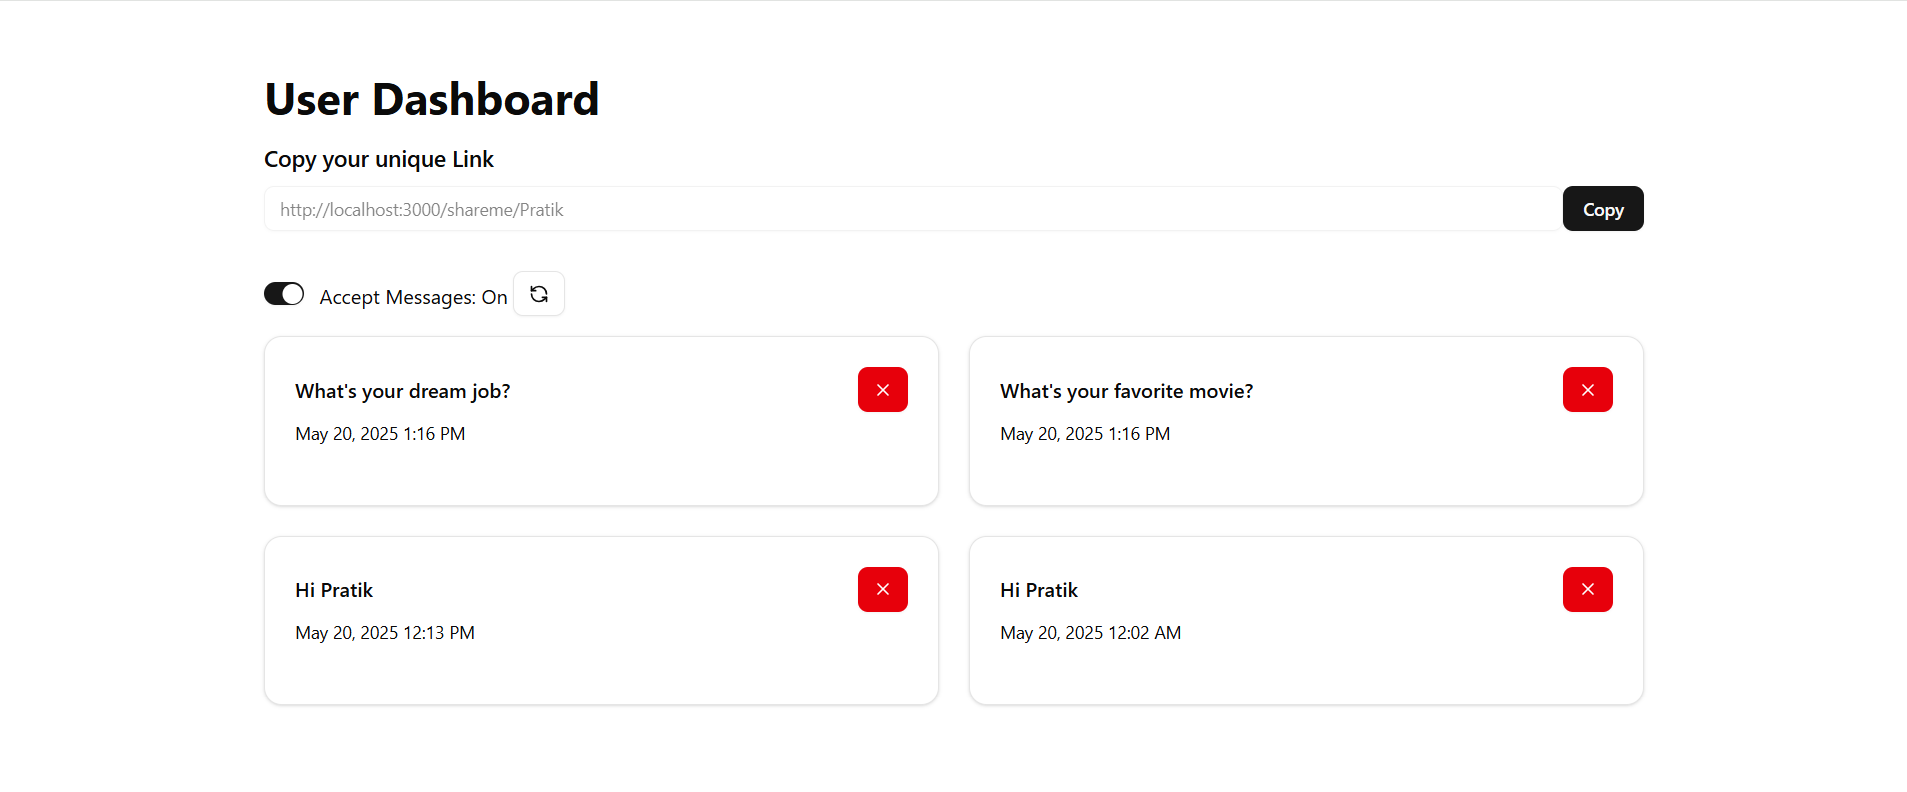
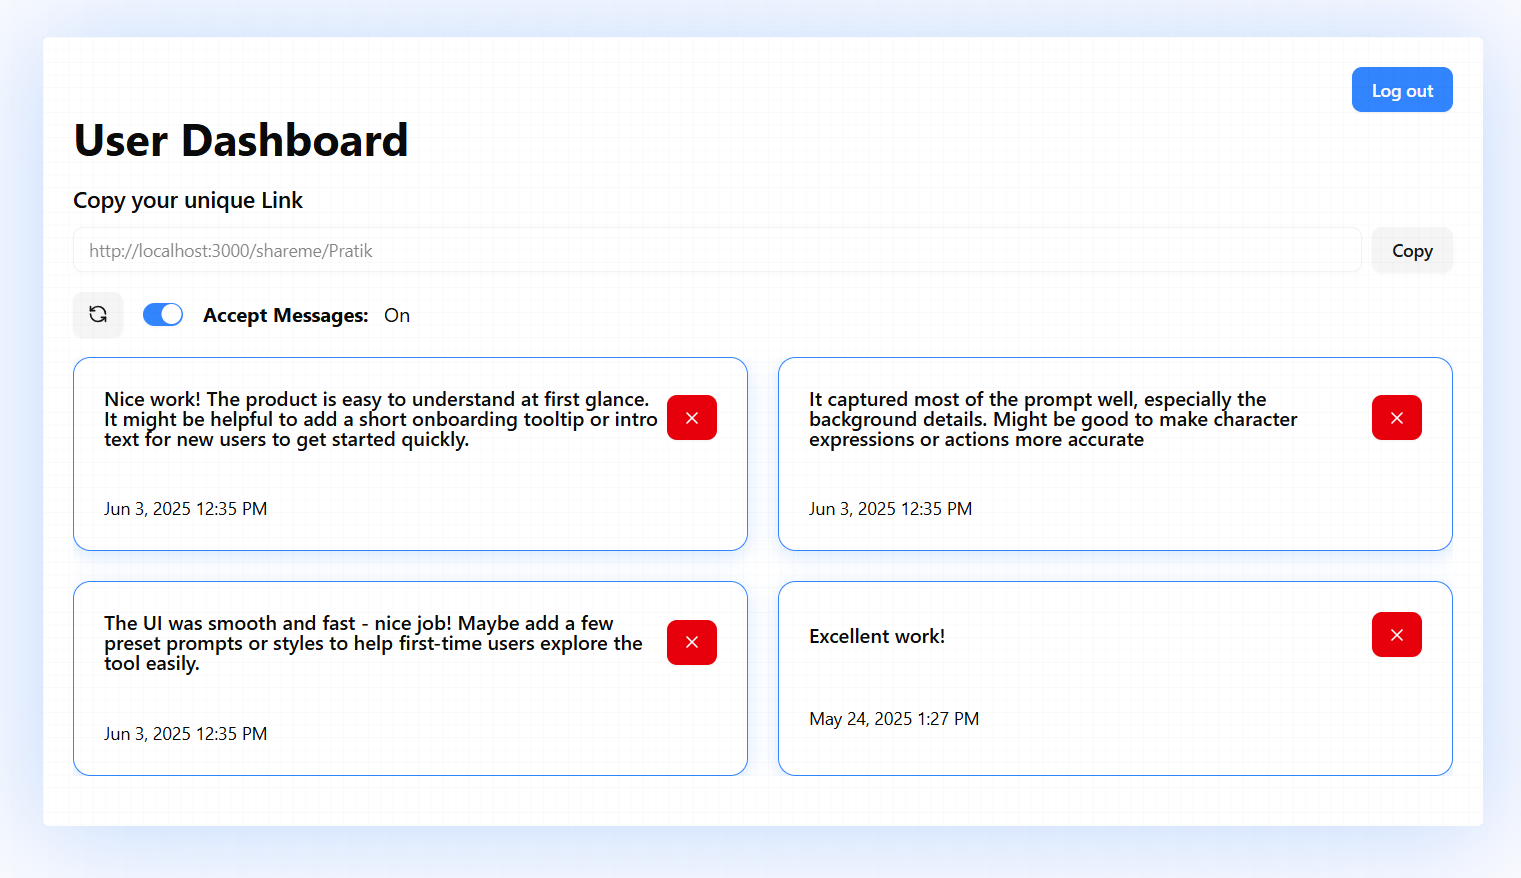
Ui fixes in speakfreely

diff --git a/feedbackapp/src/app/(app)/shareme/[username]/page.tsx b/feedbackapp/src/app/(app)/shareme/[username]/page.tsx
@@ -34,13 +34,13 @@ const parseStringMessages = (messageString: string): string[] => {
 };
 
 const initialMessageString =
-  "What's your favorite movie?||Do you have any pets?||What's your dream job?";
+  "The UI was smooth and fast - nice job! Maybe add a few preset prompts or styles to help first-time users explore the tool easily.|| It captured most of the prompt well, especially the background details. Might be good to make character expressions or actions more accurate || Nice work! The product is easy to understand at first glance. It might be helpful to add a short onboarding tooltip or intro text for new users to get started quickly.";
 
 export default function SendMessage() {
   const params = useParams<{ username: string }>();
   const username = params.username;
   const { theme } = useTheme();
-  
+
   const {
     complete,
     completion,
@@ -86,20 +86,21 @@ export default function SendMessage() {
     }
   };
 
-    const [isClient, setIsClient] = useState(false)
-  
-  
-      useEffect(() => {
-          setIsClient(true)
-      }, [])
-  
-      if (!isClient) {
-          return null
-      }
+  const [isClient, setIsClient] = useState(false)
+
+
+  useEffect(() => {
+    setIsClient(true)
+  }, [])
+
+  if (!isClient) {
+    return null
+  }
 
   return (
     <div className="container mx-auto p-6 rounded-lg max-w-4xl">
-      <div className={`relative mx-4 md:mx-8 lg:mx-auto p-6 rounded-lg w-full max-w-6xl ${theme === "light" ? "bg-white shadow-2xl shadow-[0px_4px_80px_rgba(50,133,255,0.3)]" : "bg-black shadow-2xl shadow-[0px_4px_80px_rgba(50,133,255,0.6)]"}`}>
+      <div className={`relative lg:mx-auto p-6 rounded-lg w-full max-w-6xl ${theme === "light" ? "bg-white shadow-2xl shadow-[0px_4px_80px_rgba(50,133,255,0.3)]" : "bg-black shadow-2xl shadow-[0px_4px_80px_rgba(50,133,255,0.6)]"}`}>
+        <div className="pointer-events-none absolute inset-0 z-50 bg-[linear-gradient(to_right,rgba(0,0,0,0.02)_1px,transparent_1px),linear-gradient(to_bottom,rgba(0,0,0,0.02)_1px,transparent_1px)] bg-[size:10px_10px]" />
         <h1 className="text-4xl font-bold mb-6 text-center">
           Public Profile Link
         </h1>
@@ -160,7 +161,7 @@ export default function SendMessage() {
                   <Button
                     key={index}
                     variant="outline"
-                    className="mb-2"
+                    className="mb-2 break-words whitespace-normal overflow-hidden p-8"
                     onClick={() => handleMessageClick(message)}
                   >
                     {message}

diff --git a/feedbackapp/src/components/landingpage/Header.tsx b/feedbackapp/src/components/landingpage/Header.tsx
@@ -148,8 +148,18 @@ const Header = () => {
                         </Link>
                     </nav>
 
-                    <div className='overflow-y-hidden'>
-                        <MobileNav />
+                    <div className='flex items-center gap-2'>
+                        <button
+                            onClick={() => setTheme(theme === 'dark' ? 'light' : 'dark')}
+                            className="py-2 rounded lg:hidden"
+                        >
+                            {theme === 'dark' ? <Sun /> : <Moon />}
+                        </button>
+
+                        <div className='overflow-y-hidden'>
+                            <MobileNav />
+                        </div>
+
                     </div>
 
 
@@ -161,7 +171,7 @@ const Header = () => {
                             {theme === 'dark' ? <Sun /> : <Moon />}
                         </button>
                         <Link href="/sign-in">
-                            <Button className={` ${theme === "light" ?"border border-black text-black bg-white hover:bg-black hover:text-white":"border text-black bg-white hover:bg-black hover:text-white hover:border-white"}`}>Log in</Button>
+                            <Button className={` ${theme === "light" ? "border border-black text-black bg-white hover:bg-black hover:text-white" : "border text-black bg-white hover:bg-black hover:text-white hover:border-white"}`}>Log in</Button>
                         </Link>
                         <Link href="/sign-up">
                             <Button className={`bg-dark-navy-blue text-white`}>Get Started</Button>

diff --git a/feedbackapp/src/app/(Auth)/sign-in/page.tsx b/feedbackapp/src/app/(Auth)/sign-in/page.tsx
@@ -4,7 +4,7 @@ import { zodResolver } from "@hookform/resolvers/zod"
 import { useForm } from "react-hook-form"
 import * as z from "zod"
 import Link from "next/link"
-import React, { useState } from "react";
+import React, { useEffect, useState } from "react";
 import { toast } from "sonner"
 import { LoaderCircle } from 'lucide-react';
 import {
@@ -57,9 +57,20 @@ const SignInPage = () => {
       router.replace('/dashboard');
     }
   }
+  
+  const [isClient, setIsClient] = useState(false)
 
+
+  useEffect(() => {
+    setIsClient(true)
+  }, [])
+
+  if (!isClient) {
+    return null
+  }
+  
   return (
-    <div className={`flex justify-center items-center min-h-screen ${theme === "light" ? "blue-to-white-right" : "bg-black"}`}>
+    <div className={`p-6 flex justify-center items-center min-h-screen ${theme === "light" ? "blue-to-white-right" : "bg-black"}`}>
       <div className={`w-full max-w-md p-8 space-y-8 ${theme === "light" ? "bg-white shadow-2xl shadow-[0px_4px_80px_rgba(50,133,255,0.3)]" : "bg-black shadow-2xl shadow-[0px_4px_80px_rgba(50,133,255,0.6)]"} rounded-lg`}>
         <div className="text-center">
           <h1 className="text-4xl font-extrabold tracking-tight lg:text-5xl mb-6">

diff --git a/feedbackapp/src/app/(app)/dashboard/page.tsx b/feedbackapp/src/app/(app)/dashboard/page.tsx
@@ -115,7 +115,7 @@ const DashBoard = () => {
   return (
     <div className={`h-screen flex items-center  ${theme === "light" ? "blue-to-white-right" : "bg-black"}`}>
       <div className={`relative my-8 mx-4 md:mx-8 lg:mx-auto p-6 bg-white rounded w-full max-w-6xl dark:bg-black ${theme === "light" ? "bg-white shadow-2xl shadow-[0px_4px_80px_rgba(50,133,255,0.3)]" : "bg-black shadow-2xl shadow-[0px_4px_80px_rgba(50,133,255,0.6)]"}`}>
-        <div className="pointer-events-none absolute inset-0 z-50 bg-[linear-gradient(to_right,rgba(0,0,0,0.02)_1px,transparent_1px),linear-gradient(to_bottom,rgba(0,0,0,0.02)_1px,transparent_1px)] bg-[size:10px_10px]" />
+        <div className={`pointer-events-none absolute inset-0 z-50  ${theme === "light" ? "bg-[linear-gradient(to_right,rgba(0,0,0,0.02)_1px,transparent_1px),linear-gradient(to_bottom,rgba(0,0,0,0.02)_1px,transparent_1px)] bg-[size:10px_10px]" : "   bg-[linear-gradient(to_right,rgba(255,255,255,0.05)_1px,transparent_1px),linear-gradient(to_bottom,rgba(255,255,255,0.05)_1px,transparent_1px)] bg-[size:10px_10px]"} `}/>
         <div className='flex justify-end'>
           <Button onClick={() => {
             signOut();

diff --git a/feedbackapp/src/app/(Auth)/verify/[username]/page.tsx b/feedbackapp/src/app/(Auth)/verify/[username]/page.tsx
@@ -55,7 +55,7 @@ const VerifyYourAccount = () => {
 
 
     return (
-        <div className={`flex justify-center items-center min-h-screen ${theme === "light" ? "blue-to-white-right" : "bg-black"}`}>
+        <div className={`p-6 flex justify-center items-center min-h-screen ${theme === "light" ? "blue-to-white-right" : "bg-black"}`}>
             <div className={`w-full max-w-md p-8 space-y-8 ${theme === "light" ? "bg-white shadow-2xl shadow-[0px_4px_80px_rgba(50,133,255,0.3)]" : "bg-black shadow-2xl shadow-[0px_4px_80px_rgba(50,133,255,0.6)]"} rounded-lg`}>
                 <div className="text-center">
                     <h1 className="text-4xl font-extrabold tracking-tight lg:text-5xl mb-6">

diff --git a/feedbackapp/src/app/(Auth)/sign-up/page.tsx b/feedbackapp/src/app/(Auth)/sign-up/page.tsx
@@ -83,7 +83,7 @@ const SignUpPage = () => {
     }
 
     return (
-        <div className={`flex justify-center items-center min-h-screen ${theme === "light" ? "blue-to-white-right" : "bg-black"}`}>
+        <div className={`p-6 flex justify-center items-center min-h-screen ${theme === "light" ? "blue-to-white-right" : "bg-black"}`}>
             <div className={`w-full max-w-md p-8 space-y-8 ${theme === "light" ? "bg-white shadow-2xl shadow-[0px_4px_80px_rgba(50,133,255,0.3)]" : "bg-black shadow-2xl shadow-[0px_4px_80px_rgba(50,133,255,0.6)]"} rounded-lg`}>
                 <div className="text-center">
                     <h1 className="text-4xl font-extrabold tracking-tight lg:text-5xl mb-6">

diff --git a/feedbackapp/src/components/MessageCard.tsx b/feedbackapp/src/components/MessageCard.tsx
@@ -3,7 +3,6 @@
 import React from 'react'
 import {
     Card,
-    CardContent,
     CardHeader,
     CardTitle,
 } from "@/components/ui/card"
@@ -79,11 +78,13 @@ const MessageCard = ({ message, onMsgDelete }: MessageCardProps) => {
                         </AlertDialogContent>
                     </AlertDialog>
                 </div>
-                <div className="text-sm">
+                <div className="text-sm mt-8">
                     {dayjs(message.createdAt).format('MMM D, YYYY h:mm A')}
                 </div>
+
+
             </CardHeader>
-            <CardContent></CardContent>
+
         </Card>
     )
 }

diff --git a/feedbackapp/src/middleware.ts b/feedbackapp/src/middleware.ts
@@ -11,8 +11,9 @@ export async function middleware(request: NextRequest) {
         url.pathname.startsWith('sign-up') ||
         url.pathname.startsWith('verify')
         // url.pathname.startsWith('/')
-    ) &&
-        !url.pathname.startsWith('/dashboard')
+    ) 
+    // &&
+    //     !url.pathname.startsWith('/dashboard')
     ) {
         return NextResponse.redirect(new URL('/dashboard', request.url))
     }

diff --git a/feedbackapp/src/components/landingpage/hero.tsx b/feedbackapp/src/components/landingpage/hero.tsx
@@ -1,7 +1,7 @@
 'use client'
 
 import Image from 'next/image'
-import DashBoardImg from "../../../public/DashBoard_latest.png"
+import DashBoardImg from "../../../public/DashBoard.png"
 import DashBoardImgDark from "../../../public/Dashboard_dark.png"
 import Link from 'next/link'
 import { Button } from '../ui/button'

diff --git a/feedbackapp/src/app/page.tsx b/feedbackapp/src/app/page.tsx
@@ -43,7 +43,7 @@ export default function LandingPage() {
     Autoplay({ delay: 2000, stopOnInteraction: false, stopOnMouseEnter: false })
   );
 
-     const [isClient, setIsClient] = useState(false)
+  const [isClient, setIsClient] = useState(false)
 
 
     useEffect(() => {

diff --git a/feedbackapp/src/app/layout.tsx b/feedbackapp/src/app/layout.tsx
@@ -20,7 +20,7 @@ export default function RootLayout({
             enableSystem
           >
             {children}
-            <Toaster richColors />
+            <Toaster richColors/>
           </ThemeProvider>
         </body>
       </AuthProvider>
